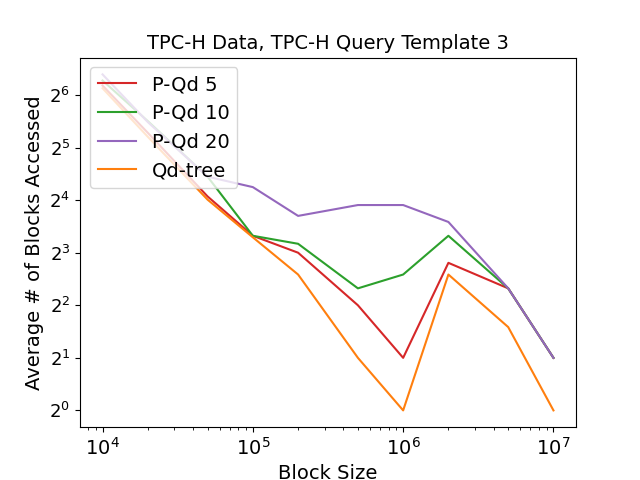
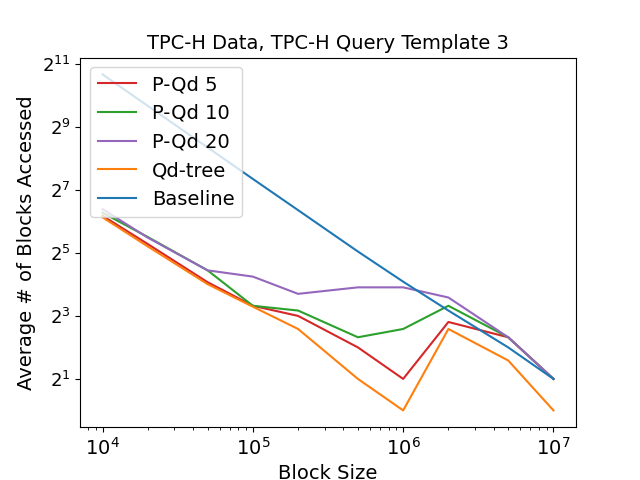
adding everything once more

diff --git a/qtimes/qtime_plotting.py b/qtimes/qtime_plotting.py
@@ -33,7 +33,7 @@ color_map = {
     'Baseline': 'tab:blue'
 }
 
-for folder in ('../qblocks/tpch/3',):
+for folder in ('tpch/1', 'tpch/3', 'tpch/4', 'tpch/10', 'tpch/12', '../qblocks/tpch/1', '../qblocks/tpch/3', '../qblocks/tpch/4', '../qblocks/tpch/10', '../qblocks/tpch/12'):
     AVG_BLOCKS = (folder[:2] == '..') 
     is_tpch = ('tpch' in folder)
     SMALL_SIZE = 14
@@ -49,12 +49,11 @@ for folder in ('../qblocks/tpch/3',):
         plt.ylabel('Average # of Blocks Accessed')
         plt.yscale('log', base=2)
     else:
-        plt.ylabel('Seconds')
+        plt.ylabel('Average Query Time (Seconds)')
     plt.xlabel('Block Size')
     stuff_to_plot = {'P-Qd 5': [], 'P-Qd 10': [], 'P-Qd 20': [], 'Qd-tree': []}
-    if not AVG_BLOCKS:
-        stuff_to_plot['Baseline']= []
-        base_data = load_data(folder + '/baseline')
+    stuff_to_plot['Baseline']= []
+    base_data = load_data(folder + '/baseline')
     sizes = tpch_sizes if is_tpch else man_sizes
     qd_data = load_data(folder + '/qd')
     for size in sizes:
@@ -62,8 +61,7 @@ for folder in ('../qblocks/tpch/3',):
         ssize = str(size)
         stuff_to_plot['Qd-tree'].append([size, qd_data[ssize]['10']])
         found_size = size if ((size > 5000000) or is_tpch) else (2 * size)
-        if not AVG_BLOCKS:
-            stuff_to_plot['Baseline'].append([found_size, base_data['1-' + ssize]['10']])
+        stuff_to_plot['Baseline'].append([found_size, base_data['1-' + ssize]['10']])
         for factor in (5, 10, 20):
             stuff_to_plot[f'P-Qd {factor}'].append([size, size_data[f'{factor}-{size}']['10']])
     for line in stuff_to_plot.keys():
